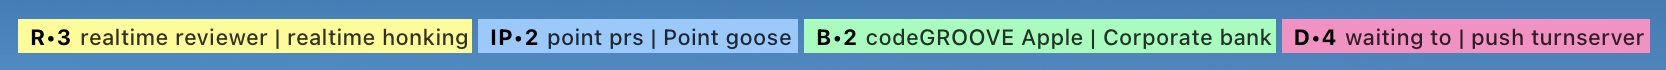
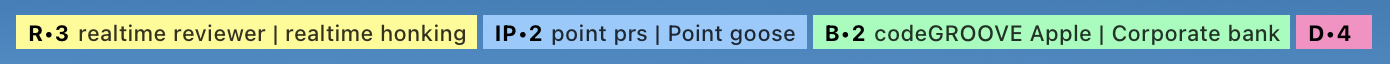
hide Done items in minimal view

diff --git a/src/main.js b/src/main.js
@@ -254,7 +254,11 @@ function renderMinimizedView() {
 
         // Get more meaningful preview of items
         let itemPreview = '';
-        if (columnItems.length > 0) {
+
+        // Check if this is a "Done" column (case-insensitive)
+        const isDoneColumn = column.name.toLowerCase() === 'done';
+
+        if (!isDoneColumn && columnItems.length > 0) {
             // Common words to skip at the beginning
             const skipWords = ['add', 'enable', 'fix', 'update', 'create', 'remove', 'delete', 'implement', 'refactor', 'improve', 'optimize', 'the', 'a', 'an'];
 
@@ -295,6 +299,7 @@ function renderMinimizedView() {
 
             itemPreview = previews.join(' | ');
         }
+        // For Done columns, itemPreview stays empty
 
         return `
             <span class="column-badge ${colorClass}">
